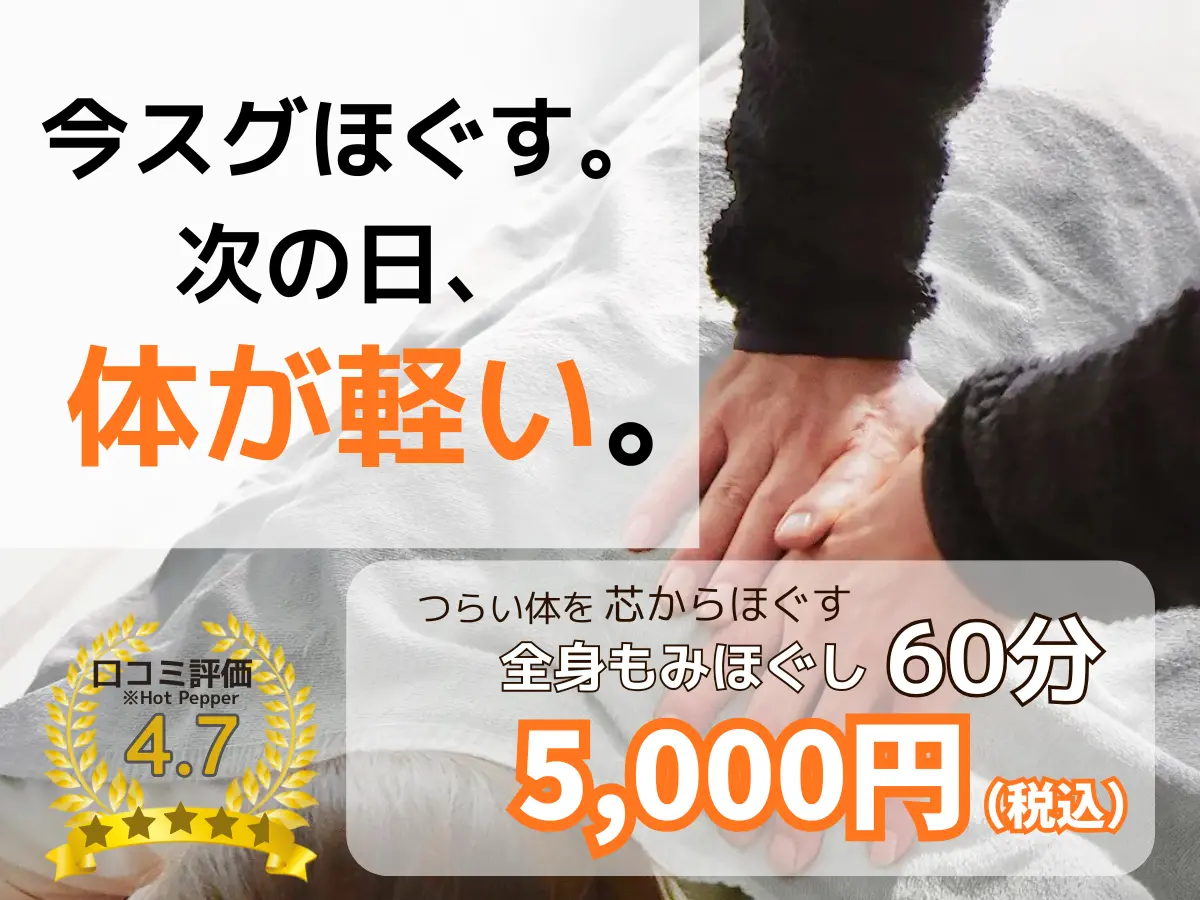
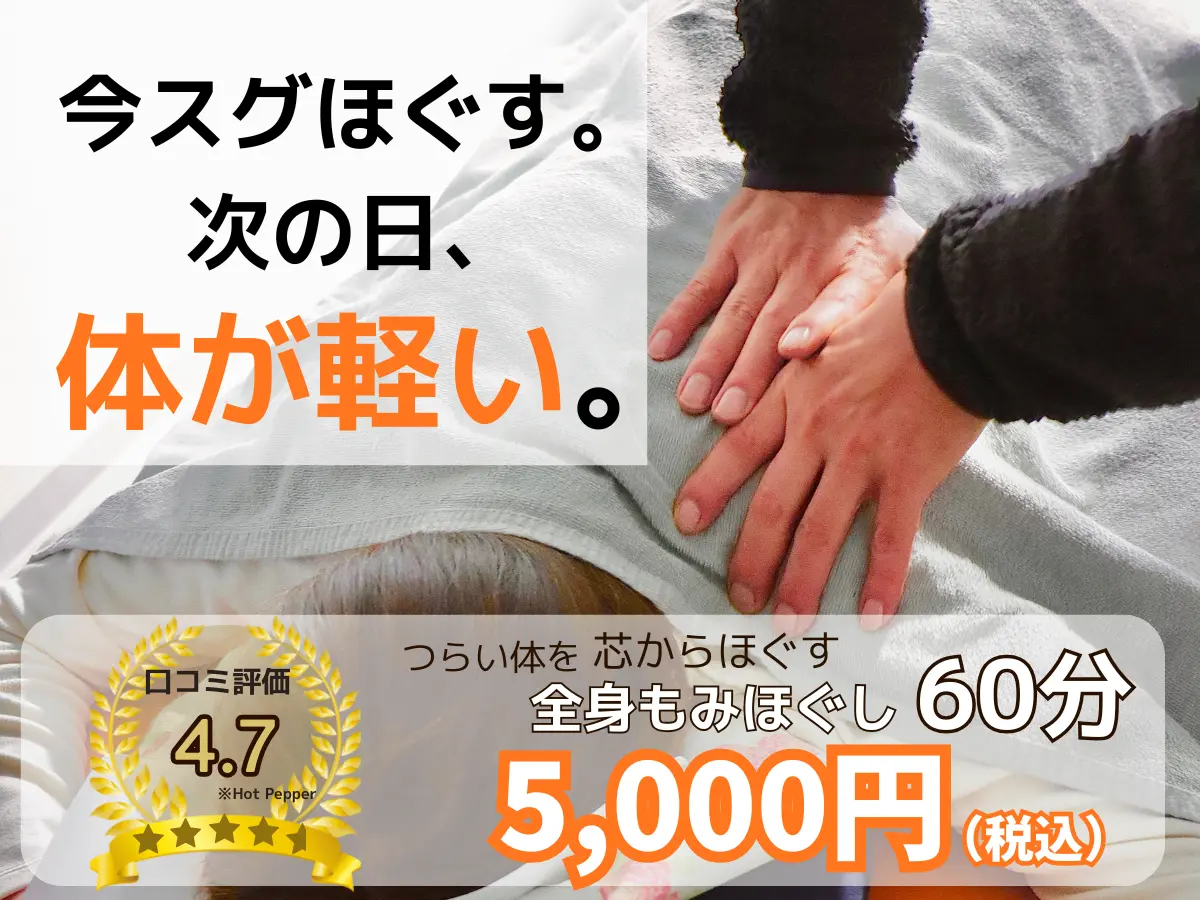
95

diff --git a/css/style.css b/css/style.css
@@ -92,7 +92,7 @@ header {
   padding-left: 2px;
   font-size: 11px;
   color: #666;
-  margin-bottom: 2px;
+  margin-bottom: 5px;
   line-height: 1.2;
   white-space: nowrap;
 }
@@ -127,13 +127,13 @@ margin: 0;
 .header-right {
 	padding-top: 10px;
   display: flex;
-  gap: 10px;
+  gap: 15px;
 }
 
 
 	/* label */
 .hamburger-demo-switch{
-	right: 10px;
+	right: 20px;
 	position: relative;
   margin-top: 10px;
 	cursor: pointer;

diff --git a/index.html b/index.html
@@ -133,7 +133,7 @@
      <img class="image-top" src="image/3/3up.webp" alt="施術中の男性">
   </div>
   <div class="main-text">
-  <h2>芯まで効かす。<br>翌日、軽い。</h2>
+  <h2>芯まで効いて、<br>もみ返しの少ない施術</h2>
     <p>ただ強く押すだけの施術ではありません。
 <br>お体の状態に合わせて<br>
 最適なツボと刺激を見極めています。</p>

diff --git a/css/style2.css b/css/style2.css
@@ -66,7 +66,6 @@
 .next {
   position: absolute;
   top: 50%;
-  transform: translateY(-50%);
   width: 36px;
   height: 36px;
   border-radius: 50%;
